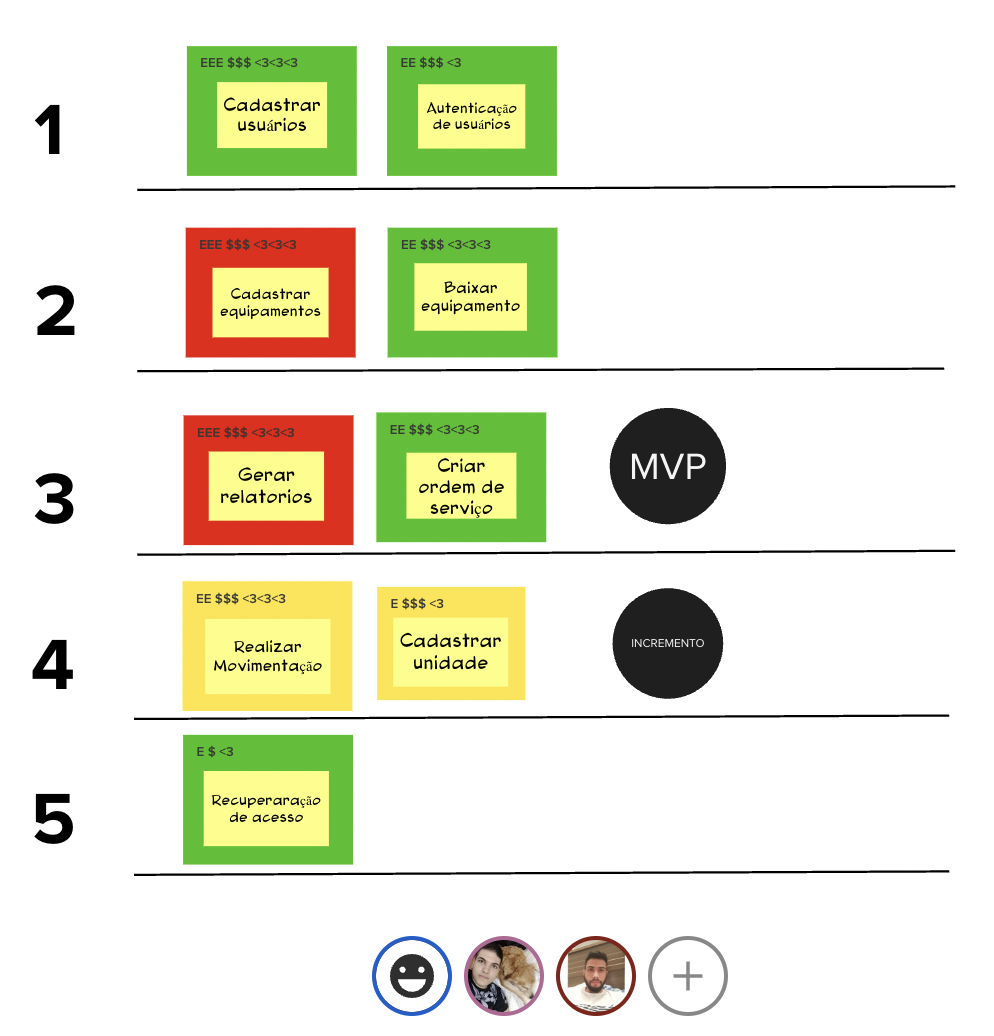
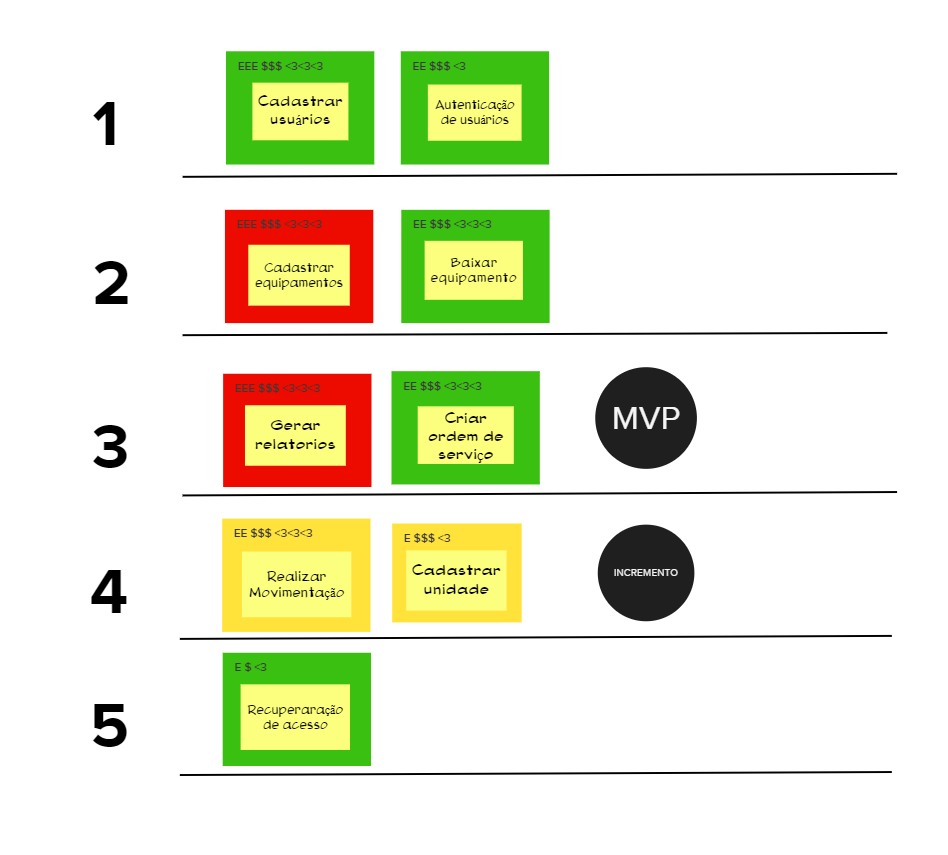
refactor: atualizada imagem do sequenciador

diff --git a/docs/documentation/Lean Inception/sequenciador.md b/docs/documentation/Lean Inception/sequenciador.md
@@ -41,4 +41,4 @@ Para esta atividade o grupo se reuniu e cada um dos membros avaliou o nível de 
 
 | **Data**   | **Descrição**        | **Autor(es)** |
 | ---------- | -------------------- | ------------- |
-| 31/07/2022 | Criação do documento | Matheus Estanislau   |
+| 31/07/2022 | Criação do documento, Correção da imagem do sequenciador | Matheus Estanislau, Igor Silva   |
